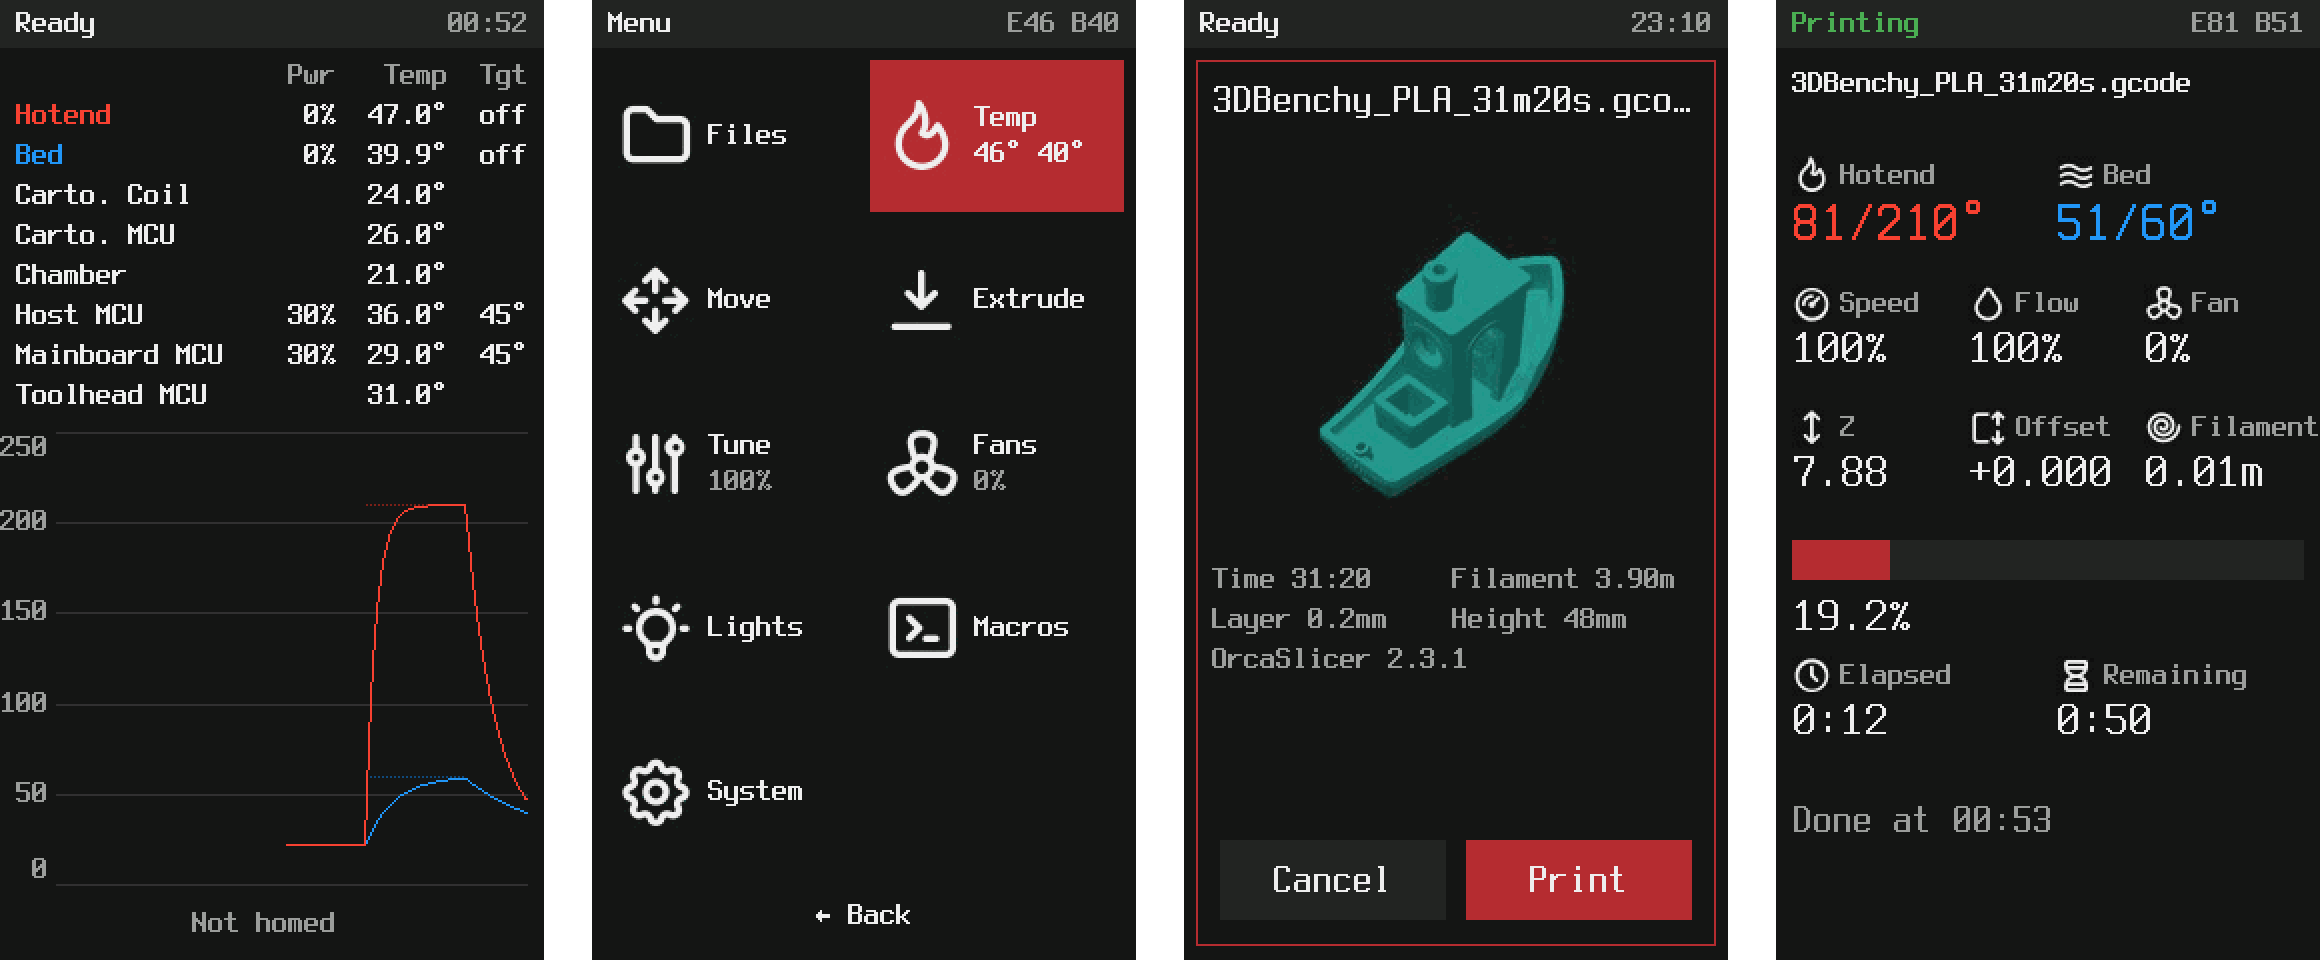
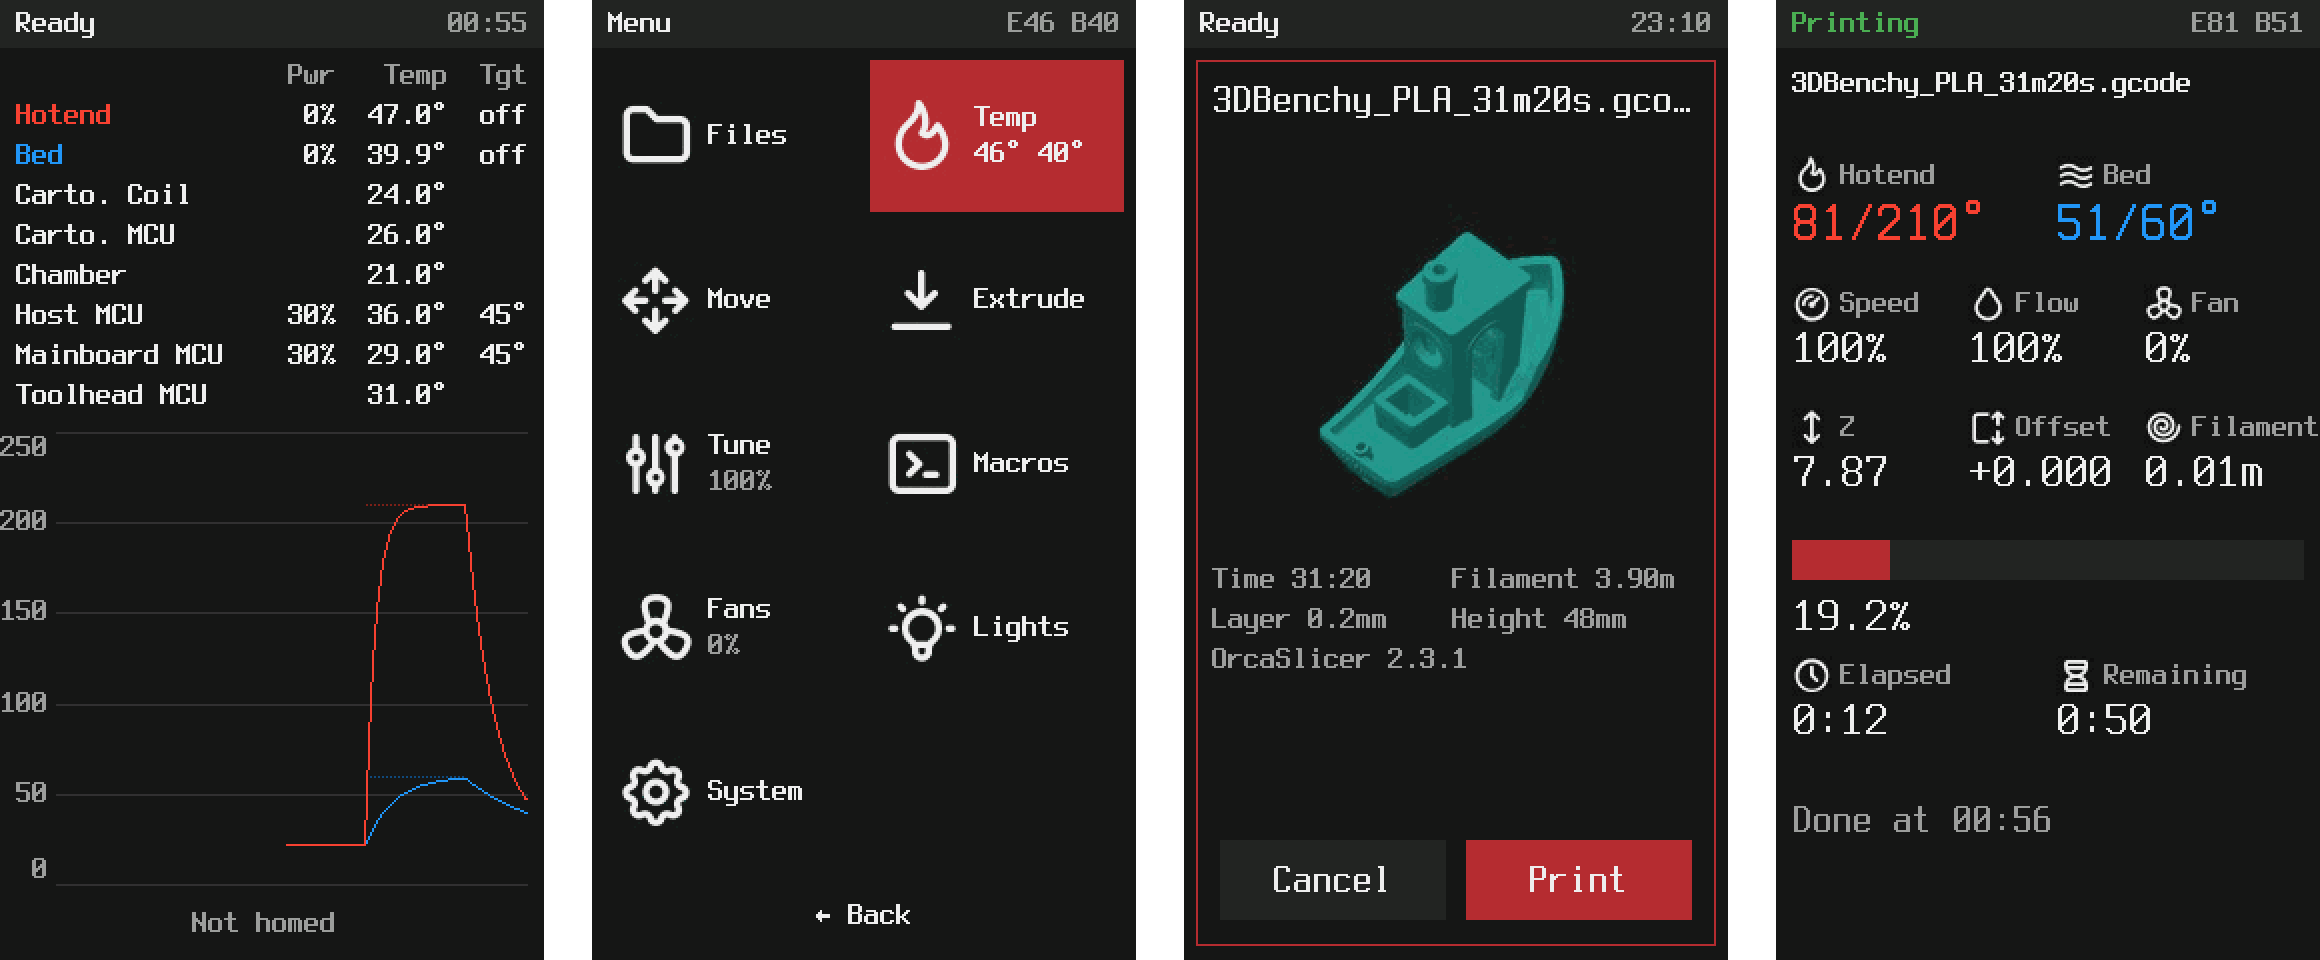
Menu: put Macros next to Tune so Fans and Lights share a row

Changed region(s): [[0.3724, 0.4375, 0.4655, 0.5312], [0.2483, 0.625, 0.3414, 0.6875], [0.3724, 0.625, 0.4345, 0.6875]]

diff --git a/dwinui/ui/screens/menu.py b/dwinui/ui/screens/menu.py
@@ -97,8 +97,9 @@ class MenuScreen(HeaderScreen):
             Entry("Move", go(MoveScreen), lambda: pr.homed_axes.upper() and f"homed {pr.homed_axes.upper()}",
                   "move"),
             Entry("Extrude", go(ExtrudeScreen), icon="extrude"),
-            tune, *devices,
+            tune,
             Entry("Macros", go(MacrosScreen), icon="macros"),
+            *devices,                                   # Fans and Lights share a row
             Entry("System", go(SystemScreen), icon="system"),
         ]
 
